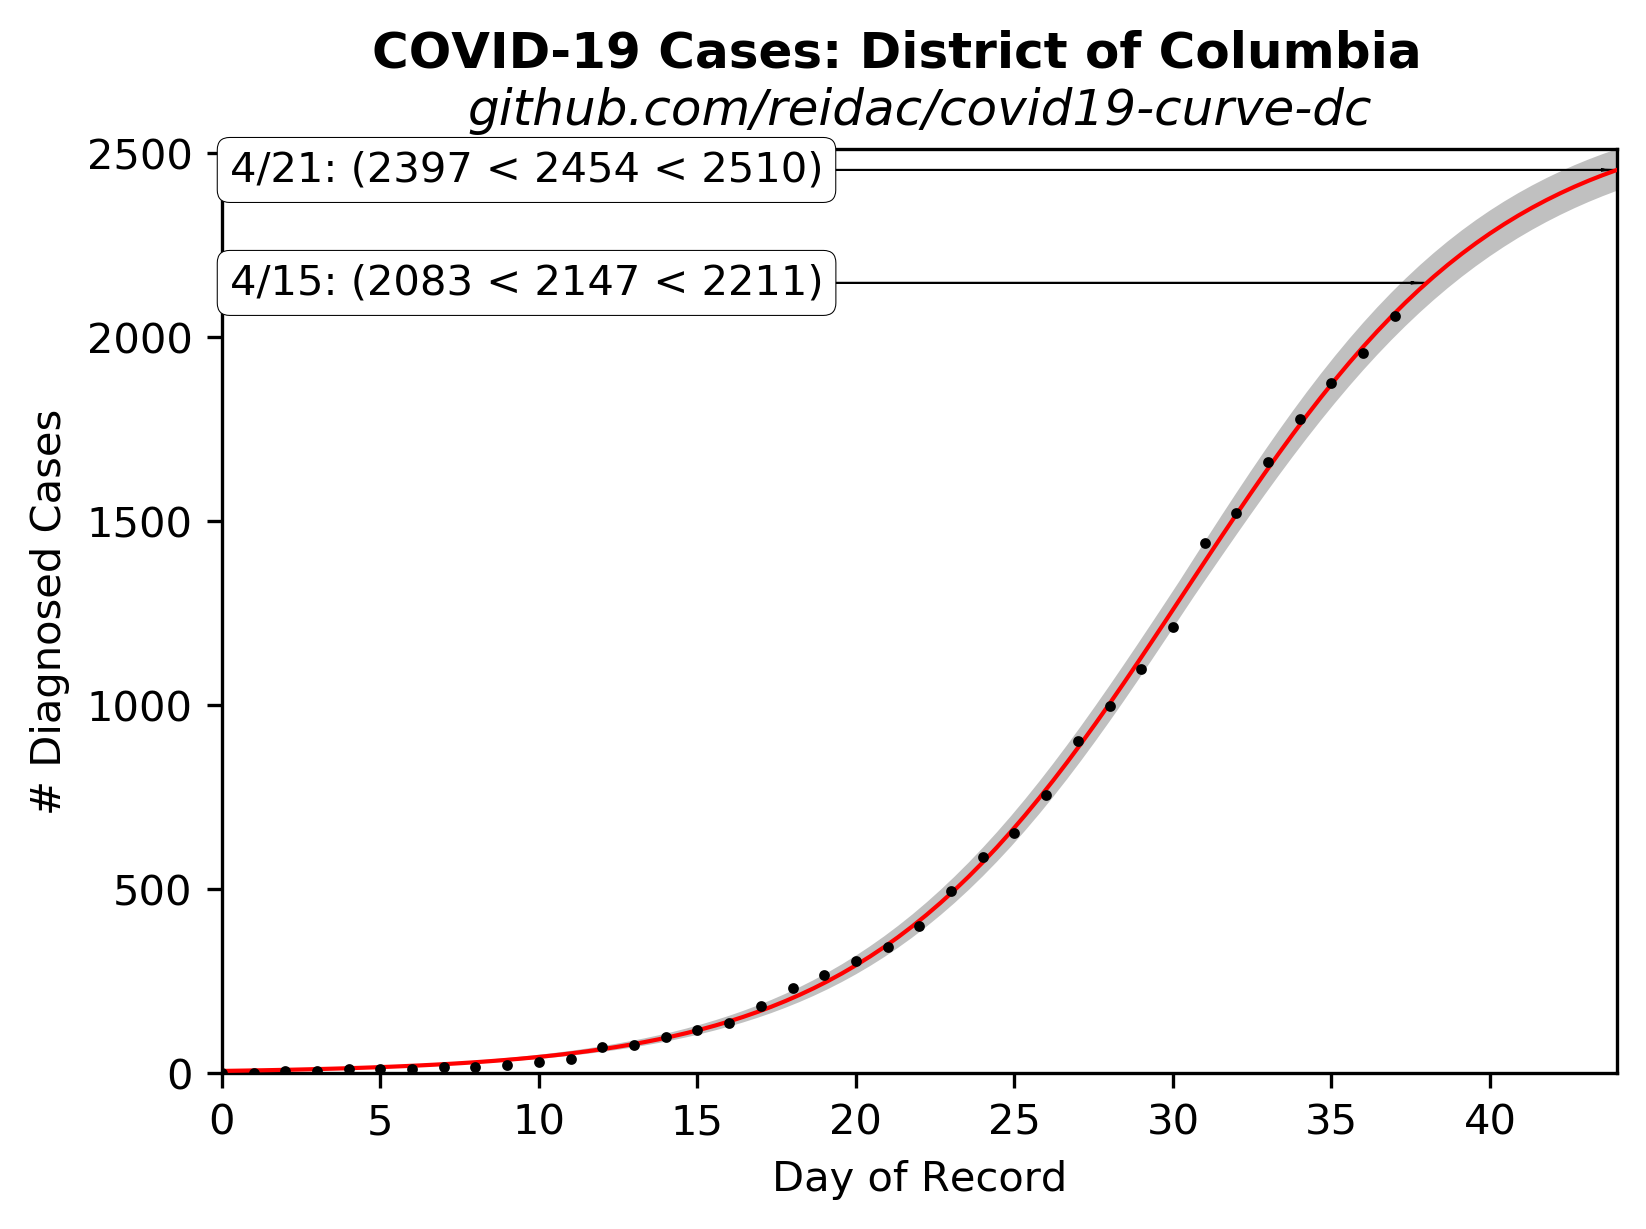
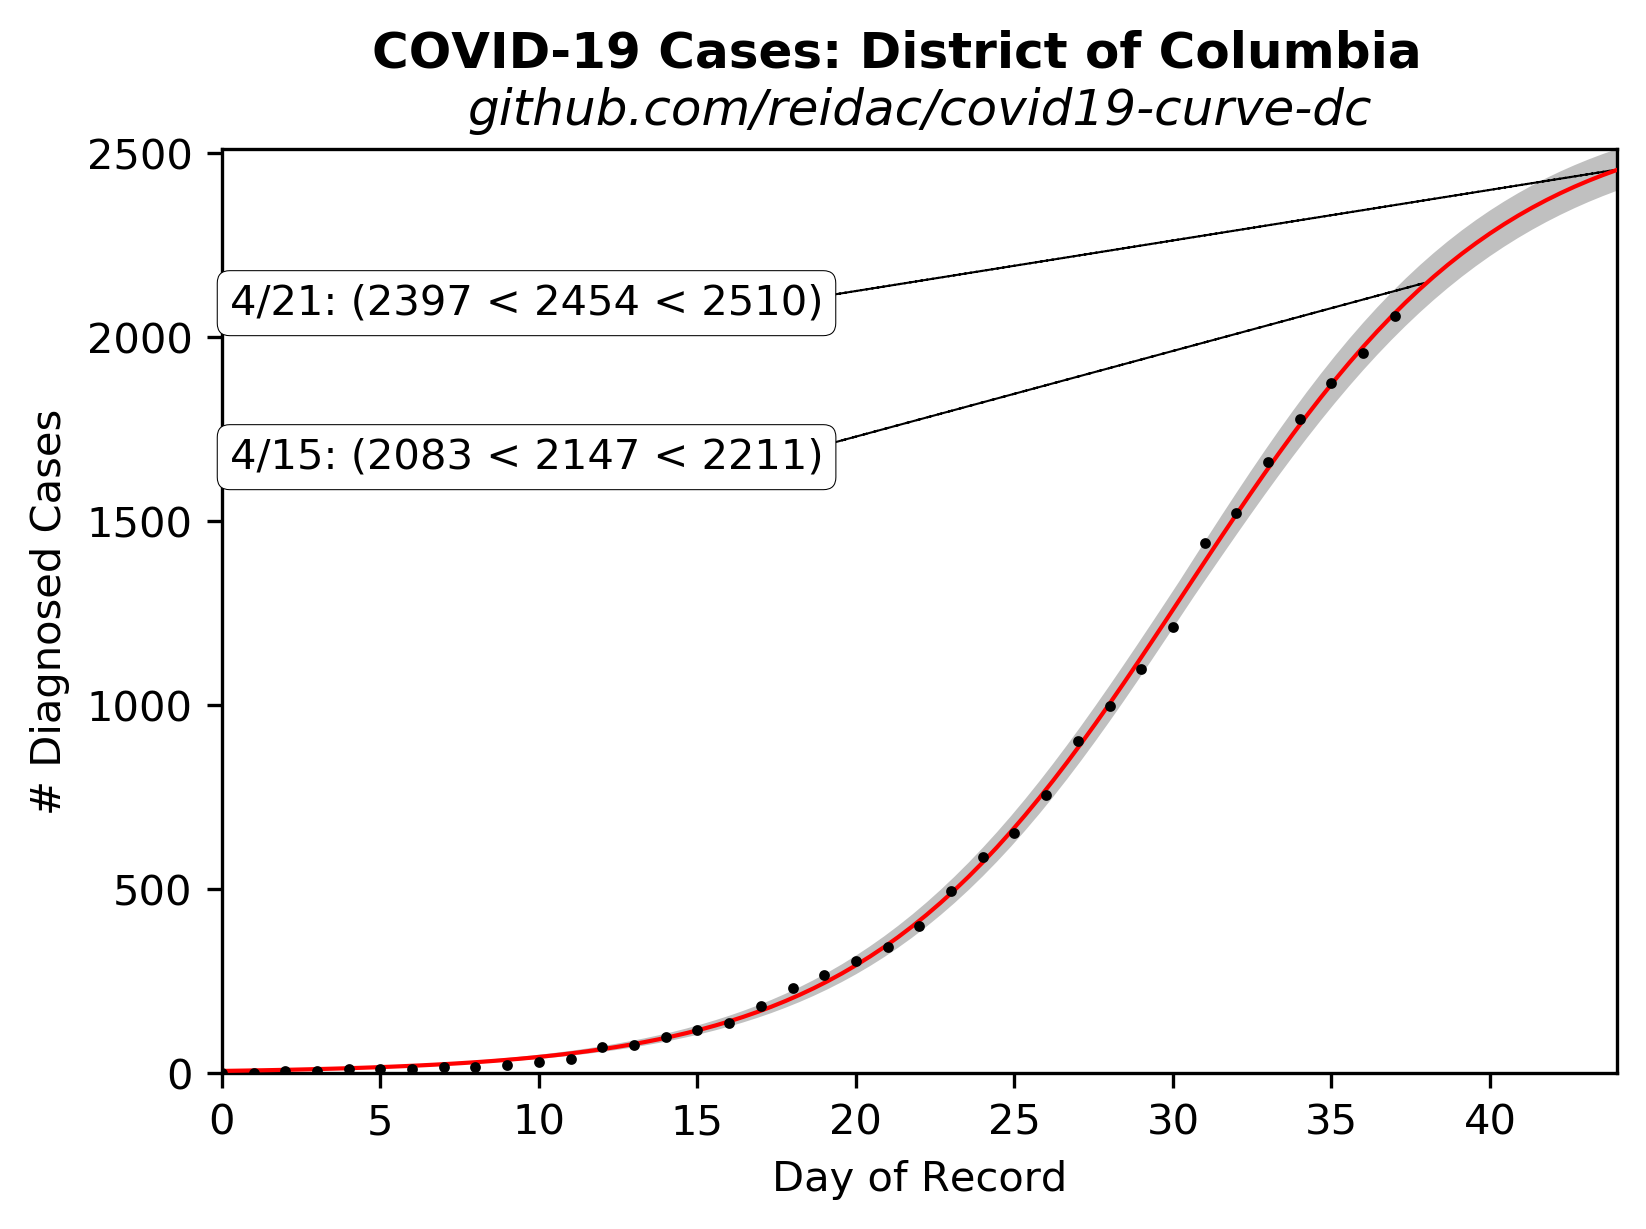
Tinkering with plot labels.

diff --git a/fitter.py b/fitter.py
@@ -62,6 +62,9 @@ def figurize(mdl,sfx,guess=None):
     plt.xlim([0, xhat[-1]])
     plt.ylim([0, upper[-1]])
 
+    xmax = xhat[-1]
+    ymax = upper[-1]
+    
     # Predictions
 
     tomorrow = date.fromordinal(casedata.today + 1)
@@ -80,7 +83,7 @@ def figurize(mdl,sfx,guess=None):
 
     plt.text(
         dx,
-        yhat[0],
+        2.0*ymax/3.0,
         "{0}/{1}: ({2:.0f} < {3:.0f} < {4:.0f})".format(
             tomorrow.month, tomorrow.day, lower[0], yhat[0], upper[0]
         ),
@@ -90,7 +93,7 @@ def figurize(mdl,sfx,guess=None):
     )
     plt.text(
         dx,
-        yhat[1],
+        2.5*ymax/3.0,
         "{0}/{1}: ({2:.0f} < {3:.0f} < {4:.0f})".format(
             nextWeek.month, nextWeek.day, lower[1], yhat[1], upper[1]
         ),
@@ -99,35 +102,28 @@ def figurize(mdl,sfx,guess=None):
         bbox=dict(boxstyle="round", ec="black", fc="white", linewidth=dx),
     )
 
-    hw = (upper[1] - lower[1]) / 50
-    hl = xhat[1] / 100
-
     plt.arrow(
-        dx,
-        yhat[0],
-        xhat[0] - dx - 0.0625,
-        0,
+        0.4*xmax,
+        (2.0*ymax/3.0),
+        xhat[0] - 0.0625 - 0.4*xmax,
+        yhat[0]-(2.0*ymax/3.0),
         fc="black",
         ec="black",
-        head_width=hw,
-        head_length=hl,
-        overhang=dx,
         length_includes_head=True,
         linewidth=0.5,
+        linestyle="--",
         zorder=2,
     )
     plt.arrow(
-        dx,
-        yhat[1],
-        xhat[1] - dx - 0.0625,
-        0,
+        0.4*xmax,
+        2.5*(ymax/3.0),
+        xhat[1] - 0.0625 - 0.4*xmax,
+        yhat[1]-(2.5*ymax/3.0),
         fc="black",
         ec="black",
-        head_width=hw,
-        head_length=hl,
-        overhang=dx,
         length_includes_head=True,
         linewidth=0.5,
+        linestyle="--",
         zorder=2,
     )
 
